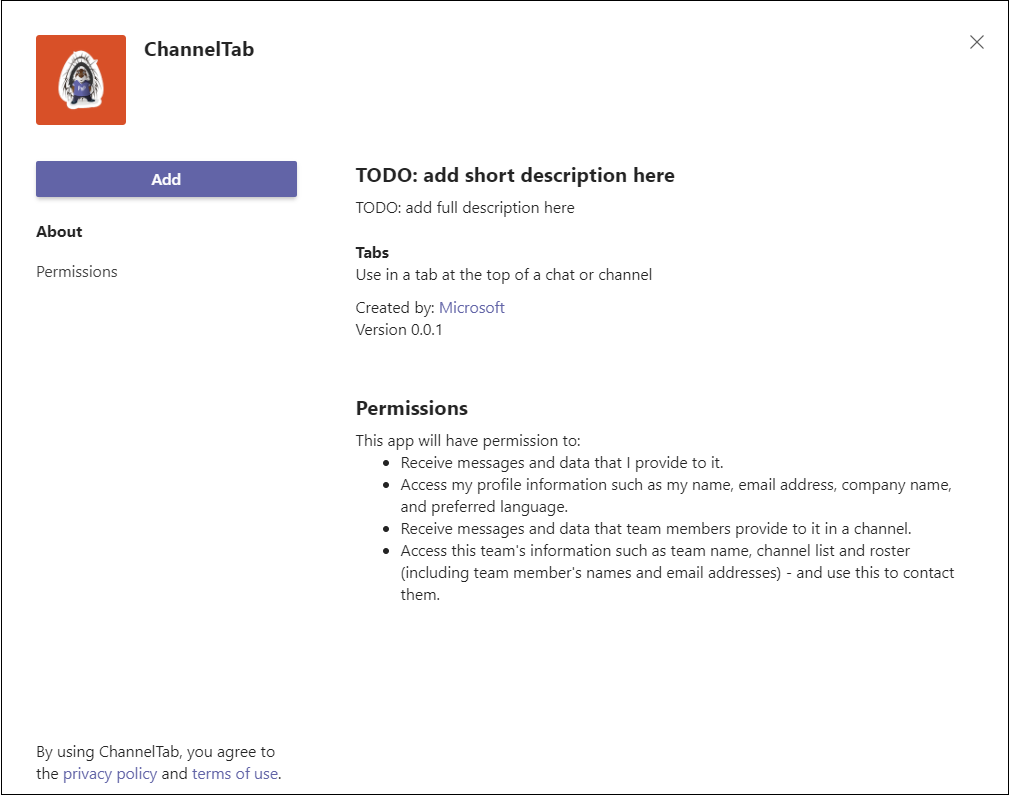
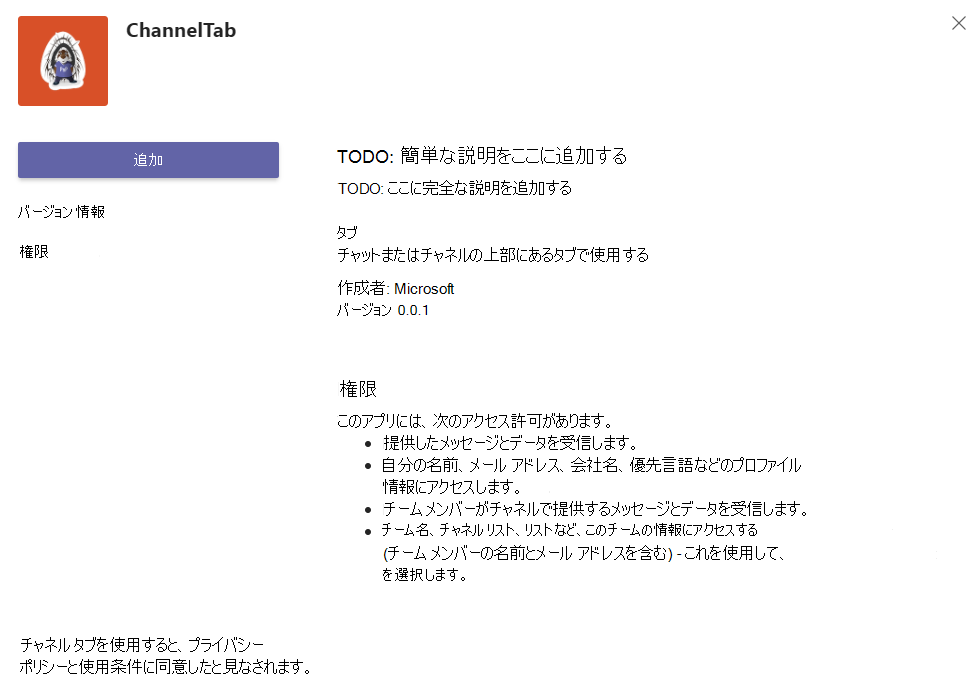
commit translated contents

diff --git a/msteams-platform/tabs/how-to/create-channel-group-tab.md b/msteams-platform/tabs/how-to/create-channel-group-tab.md
@@ -6,13 +6,8 @@ ms.localizationpriority: medium
 ms.topic: quickstart
 ms.author: lajanuar
 zone_pivot_groups: teams-app-environment
-ms.openlocfilehash: 7d74a49ff85986b27ec30eeffbc15ca836a6a94b
-ms.sourcegitcommit: 52af681132e496a57b18f468c5b73265a49a5f44
-ms.translationtype: MT
-ms.contentlocale: ja-JP
-ms.lasthandoff: 03/31/2022
-ms.locfileid: "64590671"
 ---
+
 # <a name="channel-or-group-tab"></a>[チャネルまたはグループ] タブ
 
 チャネル/グループ タブは、コンテンツをチャネルやグループのチャットに配信します。また、専用の Web ベースのコンテンツまわりに関する共同作業スペースを作成するのに優れた方法です。
@@ -171,7 +166,7 @@ gulp build
 
     :::image type="content" source="~/assets/images/tab-images/homePage.png" alt-text="[既定] タブ" border="true":::
 
-1. タブ構成ページを表示するには、 に移動します `https://localhost:3007/<yourDefaultAppNameTab>/config.html`。 次に示します。
+1. タブ構成ページを表示するには、 に移動します `http://localhost:3007/<yourDefaultAppNameTab>/config.html`。 次に示します。
 
     :::image type="content" source="~/assets/images/tab-images/configurationPage.png" alt-text="タブ構成ページ" border="true":::
 
@@ -198,7 +193,7 @@ gulp ngrok-serve
     
     :::image type="content" source="~/assets/images/tab-images/channeltabadded.png" alt-text="[アップロードされたチャネル] タブ" border="true":::
 
-1. ポップアップ **ウィンドウで** [追加] を選択します。 タブがアップロードされ、Teams。
+1. ダイアログで **[追加** ] を選択します。 タブがアップロードされ、Teams。
     
     > [!NOTE]
     > [  **追加]** がダイアログ ボックスに表示されない場合は、アップロードしたアプリ パッケージの zip フォルダーのマニフェストから次のコードを削除します。 もう一度フォルダーを圧縮し、フォルダーにTeams。
@@ -210,11 +205,12 @@ gulp ngrok-serve
     >"composeExtensions": [],
     >```
 
-1. チームに戻り、タブ➕を追加するチャネルを選択し、タブ バーから選択し、リストからタブを選択します。
-1. タブを追加するには、指示に従います。チャネルまたはグループ タブのカスタム構成ダイアログ ボックスがあります。
+1. タブを追加するには、指示に従います。チャネルまたはグループ タブのカスタム構成ダイアログがあります。
 1. [ **保存] を** 選択すると、タブがチャネルのタブ バーに追加されます。
 
     :::image type="content" source="~/assets/images/tab-images/channeltabuploaded.png" alt-text="チャネル タブのアップロード" border="true":::
+    
+    これで、チャネルまたはグループ タブが完全に作成され、追加Teams。
 
 ::: zone-end
 
@@ -245,7 +241,7 @@ gulp ngrok-serve
 
 1. Microsoft-Teams-Samplessamplestab-channel-grouprazor-csharp  >  >  >  フォルダーに移動し、**channelGroupTab.sln を開きます**。
 
-1. このVisual Studio **F5** キーを押するか、アプリケーションの  [デバッグ] メニューから [デバッグの開始] を選択して、アプリケーションが正しく読み込まれたか確認します。 ブラウザーで、次の URL に移動します。
+1. [Visual Studio **F5**] を選択するか、アプリケーションの  [デバッグ] メニューから [デバッグの開始] を選択して、アプリケーションが正しく読み込まれているか確認します。 ブラウザーで、次の URL に移動します。
 
     * https://localhost:3978/
     * https://localhost:3978/privacy
@@ -328,7 +324,7 @@ ngrok を実行してコマンド プロンプトを保持し、URL をメモし
 
 ### <a name="update-your-application"></a>アプリケーションを更新する
 
-1. **PagesShared フォルダー** > **に移動** し、**_Layout.cshtml** を開き、次の項目を <head> タグ セクション:
+1. [Visual Studio ソリューション エクスプローラーを開き、**PagesShared**  >  フォルダーに移動し、**_Layout.cshtml** を開き、次のファイルに次を追加します。 <head> タグ セクション:
 
     ```html
     <script src="https://ajax.aspnetcdn.com/ajax/jQuery/jquery-3.4.1.min.js"></script>
@@ -338,9 +334,9 @@ ngrok を実行してコマンド プロンプトを保持し、URL をメモし
     > [!IMPORTANT]
     > URL は最新バージョンを `<script src="...">` 表すので、このページの URL をコピーして貼り付けは行ないます。 SDK の最新バージョンを取得するには、常に [JavaScript API Microsoft Teams移動します](https://www.npmjs.com/package/@microsoft/teams-js)。
     
-1. タグの上部に 、 `script` への呼び出しを挿入します `microsoftTeams.initialize();`。
+1. タグに呼び出し `microsoftTeams.initialize();` を挿入 `script` します。
 
-1. Pages フォルダーに **移動し** 、 **Tab.cshtml を開きます。**
+1. [Visual Studio ソリューション エクスプローラーページ] **フォルダーに移動** し、[**Tab.cshtml] を開きます。**
 
     **Tab.cshtml 内** では、アプリケーションは、赤または灰色のアイコンでタブを表示するための 2 つのオプション ボタンをユーザーに表示します。 [灰色の **選択] または**  **[赤の選択** `saveGray()` `saveRed()``settings.setValidityState(true)`] ボタンを選択すると、構成ページの [保存] ボタンがそれぞれトリガーまたは設定され、有効になります。 このコードをTeams構成要件を完了し、インストールを続行できます。 のパラメーターが `settings.setSettings` 設定されます。 最後に、 `saveEvent.notifySuccess()` コンテンツ URL が正常に解決されたことを示すために呼び出されます。
 
@@ -379,7 +375,7 @@ ngrok を実行してコマンド プロンプトを保持し、URL をメモし
 
 ### <a name="build-and-run-your-application"></a>アプリケーションのビルドと実行
 
-1. このVisual Studio **F5 キーを押するか、[** デバッグ] メニューから [**デバッグ** の開始] **を選択** します。
+1. [Visual Studioで、[F5] を選択 **するか、[** デバッグ] メニューから [**デバッグ** の開始] **を選択** します。
 
 1. ブラウザーを開き、コマンド プロンプト ウィンドウで提供された ngrok HTTPS URL を介してコンテンツ ページに移動して、 **ngrok** が正常に実行され、正常に動作されていることを確認します。
 
@@ -390,7 +386,7 @@ ngrok を実行してコマンド プロンプトを保持し、URL をメモし
 
 1. [次へ] Microsoft Teams。 Web ベースの [バージョンを使用する](https://teams.microsoft.com)場合は、ブラウザーの開発者ツールを使用してフロントエンド コードを [検査できます](~/tabs/how-to/developer-tools.md)。
 
-1. [開発者ポータル] **に移動** Teams。
+1. [開発者ポータル [**] に移動します**](https://dev.teams.microsoft.com/home)。
 
 1. [アプリ **] を開** き、[アプリの **インポート] を選択します**。
 
@@ -410,25 +406,21 @@ ngrok を実行してコマンド プロンプトを保持し、URL をメモし
 
 1. アプリ **の URL で、** プライバシー ポリシーを更新し `https://<yourngrokurl>/privacy` 、使用条件を更新して `https://<yourngrokurl>/tou` 保存します。
 
-1. [ **アプリの機能] で**、[個人用アプリ] を選択し、[名前] を入力してコンテンツ **URL を更新** します `https://<yourngrokurl>/personalTab`。 [Web サイトの URL] フィールドは空白のままにします。 
+1. [アプリ **の機能] で**、[グループとチャネル アプリ] を選択します。 構成 **URL を更新し** 、[ `https://<yourngrokurl>/tab` スコープ] タブを **選択します**。
 
-1. **[保存]** を選択します。
+1. [**保存**] を選択します。
 
 1. [ドメイン] セクションでは、タブのドメインに HTTPS プレフィックスのない ngrok URL が含まれている必要があります `<yourngrokurl>.ngrok.io`。
 
 ### <a name="preview-your-app-in-teams"></a>アプリをプレビュー Teams
 
-1. [開発者 **ポータル] ツール バー Teams**[プレビュー] を選択します。 開発者ポータルは、アプリが正常にサイドロードされたことを通知します。
+1. [**開発者ポータル] Teams** [プレビュー] を選択すると、アプリが正常にサイドロードされたことを開発者ポータルから通知されます。 アプリ **の [** 追加] ページが [アプリ] Teams。
 
-1. [アプリ **の管理] を選択します**。 アプリがサイドロードされたアプリに表示されます。
-
-1. 検索を使用してアプリを検索し、[アプリ] を &#x25CF;&#x25CF;&#x25CF;。
-
-1. [詳細の **表示] オプションを** 選択します。 アプリの詳細ウィンドウがアプリに表示されます。
-
-1. [アプリ&nbsp;:::image type="content" source="~/assets/images/tab-images/app-dropdown.png" alt-text="の詳細] ドロップダウン" border="true":::&nbsp; >  **[チームに追加] を選択** して、チームにタブを読み込む。 タブは、このタブでTeams。
+1. [ **チームに追加] を** 選択して、チームのタブを設定します。 タブを構成し、[保存] を **選択します**。 タブは、このタブでTeams。
 
     :::image type="content" source="~/assets/images/tab-images/channeltabaspnetuploaded.png" alt-text="[チャネル] タブの ASPNET がアップロードされました" border="true":::
+    
+    これで、チャネルまたはグループ タブが完全に作成され、追加Teams。
 
 ::: zone-end
 
@@ -459,7 +451,7 @@ ngrok を実行してコマンド プロンプトを保持し、URL をメモし
 
 1. Microsoft-Teams-Samplessamplestab-channel-groupmvc-csharp  >  >  >  フォルダーに移動し、**ChannelGroupTabMVC.sln を開きます**。
 
-1. このVisual Studio **F5** キーを押するか、アプリケーションの  [デバッグ] メニューから [デバッグの開始] を選択して、アプリケーションが正しく読み込まれたか確認します。 ブラウザーで、次の URL に移動します。
+1. [Visual Studio **F5**] を選択するか、アプリケーションの  [デバッグ] メニューから [デバッグの開始] を選択して、アプリケーションが正しく読み込まれているか確認します。 ブラウザーで、次の URL に移動します。
 
     * https://localhost:3978/
     * https://localhost:3978/privacy
@@ -550,7 +542,7 @@ ngrok を実行してコマンド プロンプトを保持し、URL をメモし
 
 ### <a name="update-your-application"></a>アプリケーションを更新する
 
-1. **ViewsShared フォルダー** > **に移動** し、**_Layout.cshtml** を開き、次の項目を <head> タグ セクション:
+1. [Visual Studio ソリューション エクスプローラーを開き、**ViewsShared**  >  フォルダーに移動し、**_Layout.cshtml** を開き、次の項目を次に追加します。 <head> タグ セクション:
 
     ```html
     <script src="https://ajax.aspnetcdn.com/ajax/jQuery/jquery-3.4.1.min.js"></script>
@@ -560,9 +552,9 @@ ngrok を実行してコマンド プロンプトを保持し、URL をメモし
     > [!IMPORTANT]
     > URL は最新バージョンを `<script src="...">` 表すので、このページの URL をコピーして貼り付けは行ないます。 SDK の最新バージョンを取得するには、常に [JavaScript API Microsoft Teams移動します](https://www.npmjs.com/package/@microsoft/teams-js)。
     
-1. タグの上部に 、 `script` への呼び出しを挿入します `microsoftTeams.initialize();`。
+1. タグに呼び出し `microsoftTeams.initialize();` を挿入 `script` します。
 
-1. Tab フォルダーに **移動し** 、 **Tab.cshtml を開きます**
+1. [Visual Studio ソリューション エクスプローラー Tab フォルダーに **移動し、****Tab.cshtml を開きます。**
 
     **Tab.cshtml 内** では、アプリケーションは、赤または灰色のアイコンでタブを表示するための 2 つのオプション ボタンをユーザーに表示します。 [灰色の **選択] または**  **[赤の選択** `saveGray()` `saveRed()``settings.setValidityState(true)`] ボタンを選択すると、構成ページの [保存] ボタンがそれぞれトリガーまたは設定され、有効になります。 このコードをTeams構成要件を完了し、インストールを続行できます。 のパラメーターが `settings.setSettings` 設定されます。 最後に、 `saveEvent.notifySuccess()` コンテンツ URL が正常に解決されたことを示すために呼び出されます。 
 
@@ -601,7 +593,7 @@ ngrok を実行してコマンド プロンプトを保持し、URL をメモし
 
 ### <a name="build-and-run-your-application"></a>アプリケーションのビルドと実行
 
-1. このVisual Studio **F5 キーを押するか、[** デバッグ] メニューから [**デバッグ** の開始] **を選択** します。
+1. [Visual Studioで、[F5] を選択 **するか、[** デバッグ] メニューから [**デバッグ** の開始] **を選択** します。
 
 1. ブラウザーを開き、コマンド プロンプト ウィンドウで提供された ngrok HTTPS URL を介してコンテンツ ページに移動して、 **ngrok** が正常に実行され、正常に動作されていることを確認します。
 
@@ -612,7 +604,7 @@ ngrok を実行してコマンド プロンプトを保持し、URL をメモし
 
 1. [次へ] Microsoft Teams。 Web ベースの [バージョンを使用する](https://teams.microsoft.com)場合は、ブラウザーの開発者ツールを使用してフロントエンド コードを [検査できます](~/tabs/how-to/developer-tools.md)。
 
-1. [開発者ポータル **] に** 移動Teams。
+1. [開発者ポータル [**] に移動します**](https://dev.teams.microsoft.com/home)。
 
 1. [アプリ **] を開** き、[アプリの **インポート] を選択します**。
 
@@ -632,29 +624,25 @@ ngrok を実行してコマンド プロンプトを保持し、URL をメモし
 
 1. アプリ **の URL で、** プライバシー ポリシーを更新し `https://<yourngrokurl>/privacy` 、使用条件を更新して `https://<yourngrokurl>/tou` 保存します。
 
-1. [ **アプリの機能] で**、[個人用アプリ] を選択し、[名前] を入力してコンテンツ **URL を更新** します `https://<yourngrokurl>/personalTab`。 [Web サイトの URL] フィールドは空白のままにします。
+1. [アプリ **の機能] で**、[グループとチャネル アプリ] を選択します。 構成 **URL を更新し** 、[ `https://<yourngrokurl>/tab` スコープ] タブを **選択します**。
 
-1. **[保存]** を選択します。
+1. [**保存**] を選択します。
 
 1. [ドメイン] セクションでは、タブのドメインに HTTPS プレフィックスのない ngrok URL が含まれている必要があります `<yourngrokurl>.ngrok.io`。
 
 ### <a name="preview-your-app-in-teams"></a>アプリをプレビュー Teams
 
-1. [開発者 **ポータル] ツール バー Teams**[プレビュー] を選択します。 開発者ポータルは、アプリが正常にサイドロードされたことを通知します。
+1. [**開発者ポータル] Teams** [プレビュー] を選択すると、アプリが正常にサイドロードされたことを開発者ポータルから通知されます。 アプリ **の [** 追加] ページが [アプリ] Teams。
 
-1. [アプリ **の管理] を選択します**。 アプリがサイドロードされたアプリに表示されます。
-
-1. 検索を使用してアプリを検索し、[アプリ] を &#x25CF;&#x25CF;&#x25CF;。
-
-1. [詳細の **表示] オプションを** 選択します。 アプリの詳細ウィンドウがアプリに表示されます。
-
-1. [チャネル&nbsp;:::image type="content" source="~/assets/images/tab-images/app-dropdown.png" alt-text="] タブ [ASPNET のアップロード] [" border="true":::&nbsp; > **チームに追加] を選択して**、チームにタブを読みTeams。 タブは、このタブでTeams。
+1. [ **チームに追加] を** 選択して、チームのタブを設定します。 タブを構成し、[保存] を **選択します**。 タブは、このタブでTeams。
 
     :::image type="content" source="~/assets/images/tab-images/channeltabaspnetuploaded.png" alt-text="チャネル タブ ASPNET MVC アップロード" border="true":::
+    
+    これで、チャネルまたはグループ タブが完全に作成され、追加Teams。
 
 ::: zone-end
 
-## <a name="next-step"></a>次の手順
+## <a name="next-step"></a>次のステップ
 
 > [!div class="nextstepaction"]
 > [コンテンツ ページを作成する](~/tabs/how-to/create-tab-pages/content-page.md)

diff --git a/msteams-platform/apps-in-teams-meetings/meeting-app-extensibility.md b/msteams-platform/apps-in-teams-meetings/meeting-app-extensibility.md
@@ -4,13 +4,8 @@ author: surbhigupta
 description: デスクトップ環境Teams環境での会議のライフサイクルとユーザーの会議エクスペリエンス、参加者とユーザーの役割と種類、会議ライフサイクルでのボットとメッセージング拡張機能の統合について説明します。
 ms.topic: conceptual
 ms.localizationpriority: none
-ms.openlocfilehash: 16a969c7f863bf1f4c01f6f81b9ddfb848eaaf22
-ms.sourcegitcommit: 3dc9b539c6f7fbfb844c47a78e3b4d2200dabdad
-ms.translationtype: MT
-ms.contentlocale: ja-JP
-ms.lasthandoff: 03/31/2022
-ms.locfileid: "64571132"
 ---
+
 # <a name="unified-meetings-apps"></a>統合された会議アプリ
 
 Teams会議アプリは、次の概念に基づいて行います。
@@ -85,6 +80,9 @@ Teams会議アプリは、次の概念に基づいて行います。
 1. [会議内] ダイアログ ボックスで、フィードバックとして応答を入力します。
 
 # <a name="desktop"></a>[デスクトップ](#tab/desktop)
+
+:::image type="content" source="~/assets/images/apps-in-meetings/desktop-in-meeting-dialog-view.png" alt-text="デスクトップ ビュー":::
+
 
 # <a name="mobile"></a>[モバイル](#tab/mobile)
 
@@ -211,7 +209,7 @@ Teams会議アプリは、次の概念に基づいて行います。
 | ゲスト、テナント の一部Azure AD | 対話は許可されます。 作成、更新、および削除は許可されません。 | 使用不可 | 使用不可 | 会議チャットでの操作は許可されます。 | アダプティブ カードからの会議チャットでの操作は許可されます。 | 使用可能 | 会議のステージでアプリを開始、表示、操作できます | 使用可能 |
 | フェデレーション ユーザーの詳細については、「標準以外の [ユーザー」を参照してください](/microsoftteams/non-standard-users)。 | 対話は許可されます。 作成、更新、および削除は許可されません。 | 対話は許可されます。 取得、更新、削除は許可されません。 | 使用不可 | 会議チャットでの操作は許可されます。 | アダプティブ カードからの会議チャットでの操作は許可されます。 | 使用不可 | 会議のステージでアプリを開始、表示、操作できます | 使用不可 |
 
-## <a name="next-step"></a>次の手順
+## <a name="next-step"></a>次のステップ
 
 > [!div class="nextstepaction"]
 > [会議のアプリを有効にしてTeamsする](enable-and-configure-your-app-for-teams-meetings.md)
